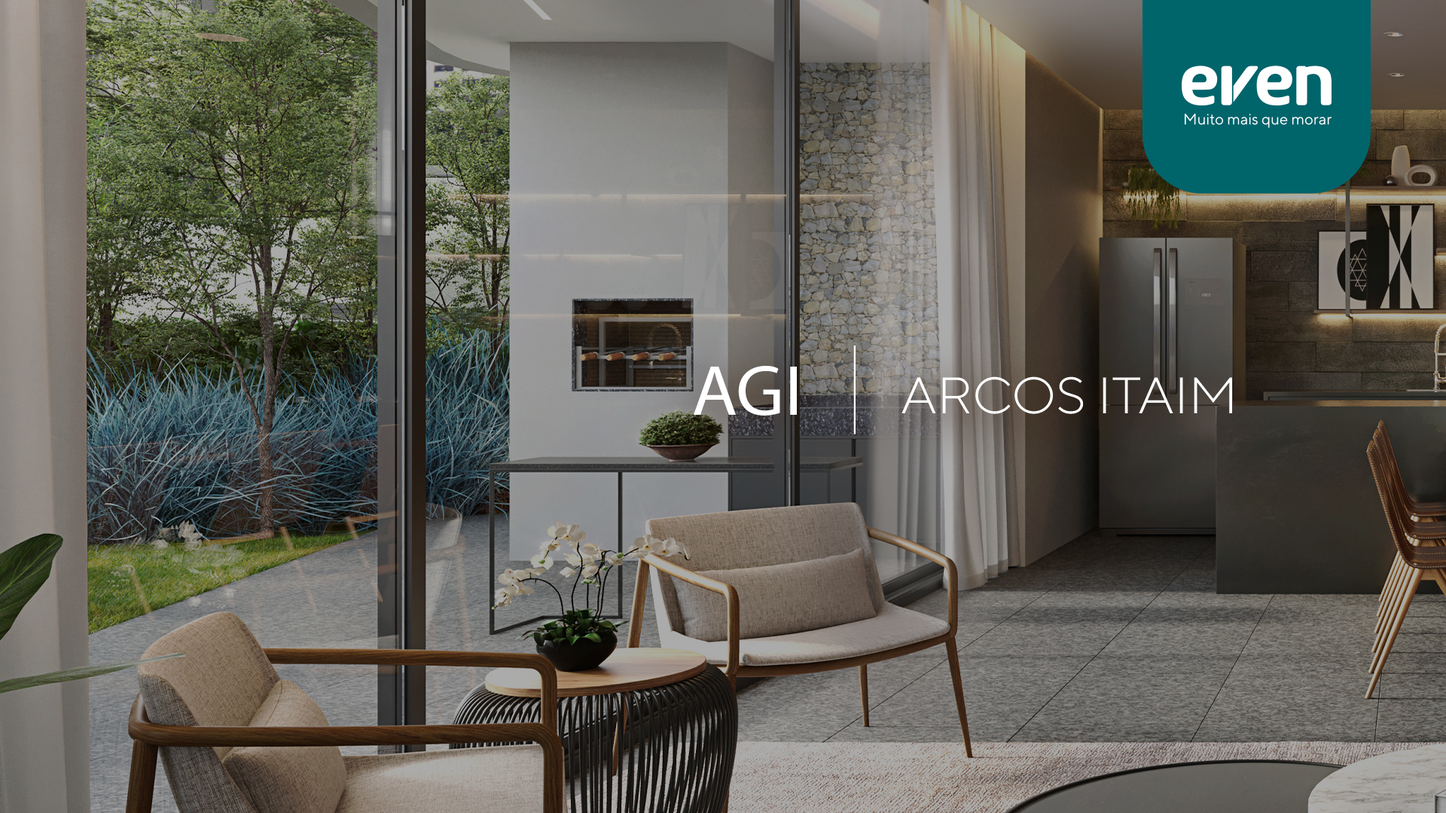
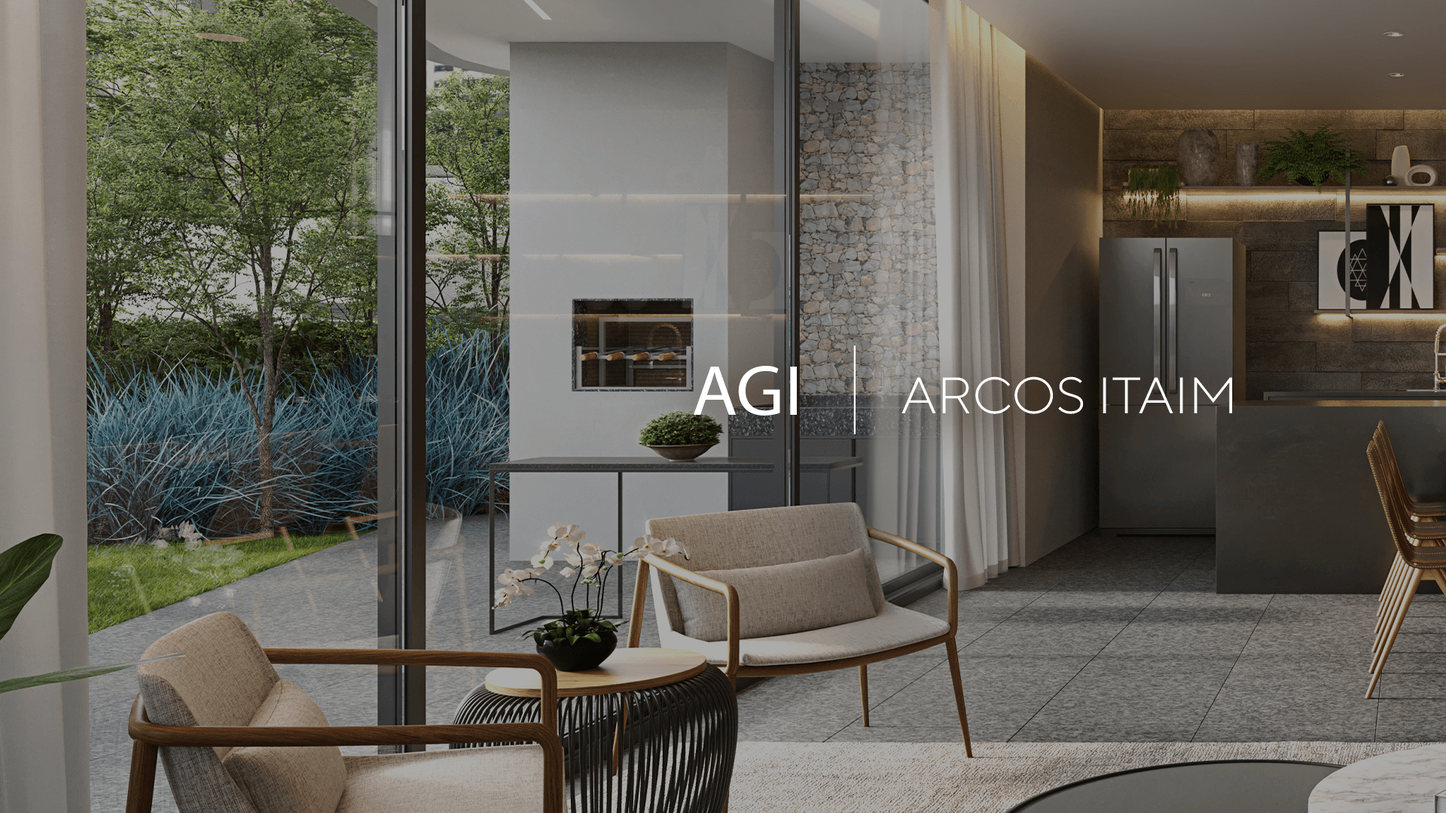
Animations added

Changed region(s): [[0.7812, 0.0, 0.9688, 0.2444]]

diff --git a/index.html b/index.html
@@ -13,7 +13,7 @@
   <meta name="keywords"
         content="Even"/>
   <meta name="author" content="Even">
-
+  
   <!-- Favicon -->
   <link rel="icon" href="images/favicon.png" type="image/png">
   <link rel="apple-touch-icon" href="images/favicon.png">
@@ -21,6 +21,12 @@
 
   <!-- Bootstrap CSS -->
   <link rel="stylesheet" href="css/plugins/bootstrap.min.css">
+  <link rel="stylesheet" href="css/plugins/animista.css">
+
+  <link
+  rel="stylesheet"
+  href="https://cdnjs.cloudflare.com/ajax/libs/animate.css/4.1.1/animate.min.css"
+/>
 
   <!-- Font Icons -->
   <link rel="stylesheet"
@@ -72,7 +78,9 @@
   ================================= -->
 
   <!-- Image BG -->
-  <div class="section-overlay media page-image-bw reveal scale-in"></div>
+  <div class="section-overlay media page-image-bw reveal scale-in">
+    <img src="./images/logo-even.png" class="tag-block-sm animate__animated animate__fadeInDownBig animate__delay-2s" alt="Imagem responsiva">
+  </div>
   <!-- /End Image BG -->
 
   <!-- Overlay BG -->
@@ -92,8 +100,8 @@
 
 
 
-      <div class="menu-fixed-content">
-        <h1 class="text-white">
+      <div class="menu-fixed-content ">
+        <h1 class="text-white animate__animated animate__fadeIn animate__delay-1s">
           <strong>
             Chegou<br> o momento
           </strong>
@@ -102,11 +110,11 @@
           o seu Even!<br>
           </h1>
       
-      <button class="btn-row">
+      <button class="btn-row animate__animated animate__fadeIn animate__delay-2s">
 <b>Clique aqui</b> para <br>
 enviar a procuração
       </button>
-      <h2>
+      <h2 class="animate__animated animate__fadeIn animate__delay-3s">
         <strong style="text-transform:none; font-size: 2.6rem;">
           Aguarde! <br>
         </strong>
@@ -115,7 +123,7 @@ enviar a procuração
       </h2>
       </div>
 
-      <div class="menu-fixed-disclosure">
+      <div class="menu-fixed-disclosure animate__animated animate__fadeIn animate__delay-4s">
         <p>
           *AGI é Assembleia Geral de <br>
           Instalação de Condominio.

diff --git a/css/plugins/animista.css b/css/plugins/animista.css
@@ -1,0 +1,34 @@
+/* ----------------------------------------------
+ * Generated by Animista on 2023-7-3 20:41:45
+ * Licensed under FreeBSD License.
+ * See http://animista.net/license for more info. 
+ * w: http://animista.net, t: @cssanimista
+ * ---------------------------------------------- */
+
+@-webkit-keyframes slide-in-bck-left {
+    0% {
+        -webkit-transform: translateZ(700px) translateX(-400px);
+        transform: translateZ(700px) translateX(-400px);
+        opacity: 0
+    }
+
+    100% {
+        -webkit-transform: translateZ(0) translateX(0);
+        transform: translateZ(0) translateX(0);
+        opacity: 1
+    }
+}
+
+@keyframes slide-in-bck-left {
+    0% {
+        -webkit-transform: translateZ(700px) translateX(-400px);
+        transform: translateZ(700px) translateX(-400px);
+        opacity: 0
+    }
+
+    100% {
+        -webkit-transform: translateZ(0) translateX(0);
+        transform: translateZ(0) translateX(0);
+        opacity: 1
+    }
+}

diff --git a/css/style.css b/css/style.css
@@ -645,9 +645,17 @@ label.message-text {
   padding: 200px 40px 40px 40px!important;
   overflow-y: auto;
   }
+  .tag-block-sm{
+    display:none;
+    
+  }
   .d-block{
     display:block !important;
   }
+    .tag-block-sm{
+      display:none!important
+    }
+  
   h1 {
     font-size: 2.4rem;
   }
@@ -657,6 +665,14 @@ label.message-text {
   .menu-fixed-content{
     margin-top: 80px;
   }
+}
+.tag-block-sm{
+  display:block!important;
+  height:inherit!important;
+    right: 2rem!important;
+    min-height:unset!important;
+    min-width: unset!important;
+    left:unset!important;
 }
 .d-sm-none{
   display:none ;
@@ -989,7 +1005,7 @@ header {
   background-size: cover;
   height: auto;
     width: 100%;
-    min-height: 998px;
+    min-height: 960px;
 }
 
 .page-slide {
